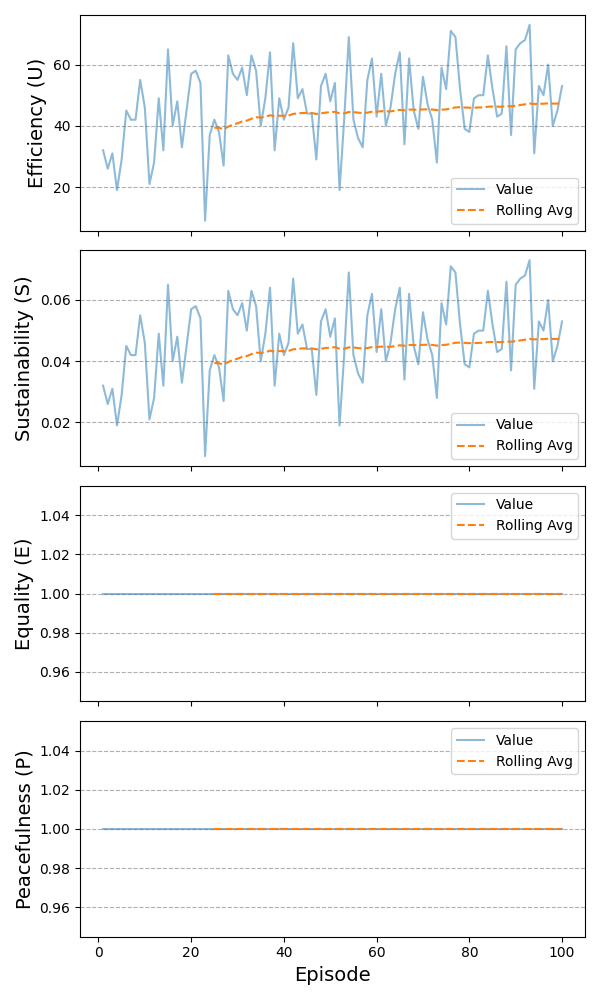
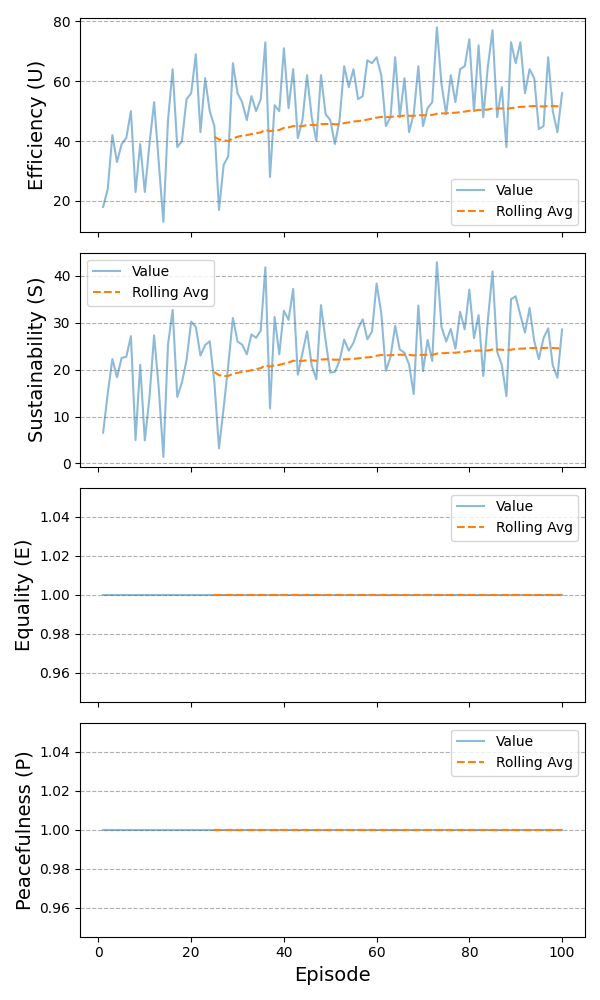
Done

diff --git a/libs/metrics.py b/libs/metrics.py
@@ -17,7 +17,9 @@ class Metrics:
         self.rewards.append(rewards)
     
     def calculate_efficiency(self):
-        self.efficiency = np.mean( [sum(sublist[i] for sublist in self.rewards) for i in range(len(self.rewards[0]))])
+        total_rewards = sum(sum(agent_rewards) for agent_rewards in self.rewards)
+        self.utilitarian_eff = total_rewards / self.num_agents
+
 
     
     def calculate_equality(self):
@@ -36,12 +38,13 @@ class Metrics:
         self.equality = 1 - gini_coefficient
     
     def calculate_sustainability(self):
-        rewards = np.array(self.rewards) 
-        n_episodes = rewards.shape[0]
+        t = 0
+        for i in range(len(self.rewards)):
+            ts = np.array(self.rewards[i]) * i
+            sum_times = np.sum(ts)
+            t += sum_times
 
-        total_sum = np.sum(rewards)
-
-        self.sustainability = total_sum / n_episodes
+        self.sustainability = t / len(self.rewards)
 
     def calculate_peace(self):
         steps = len(self.observations)
